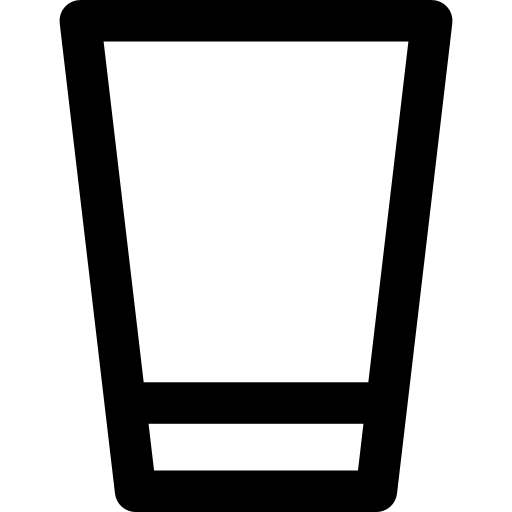
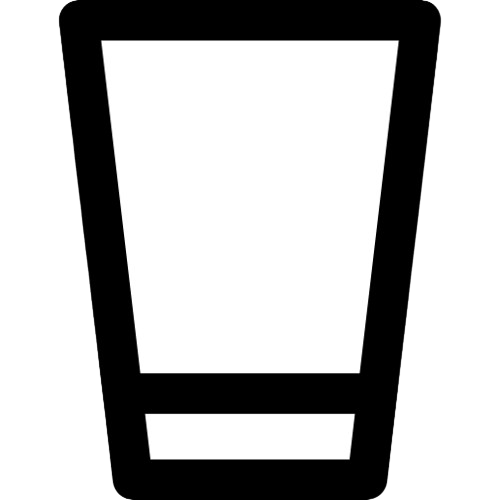
Add: fundo e sprite do copo melhorado

diff --git a/main.py b/main.py
@@ -7,6 +7,8 @@ from jogadorbla import *
 tela = pygame.display.set_mode((800, 500))
 pygame.display.set_caption("Pega Doces")
 tela.fill((136, 76, 181))
+fundo = pygame.image.load("zimagens/fundo.png")
+fundo = pygame.transform.scale(fundo,(800,500))
 
 
 #JOGADOR ATRIBUTOS E TAL
@@ -25,6 +27,7 @@ while rodando == True:
             rodando = False
     #LIMPANDO A TELA
     tela.fill((136, 76, 181))
+    tela.blit(fundo, (0,0))
 
     #JOGADOR APARECENDO e ANDANDO
     jogador.movimento(pygame.K_LEFT, pygame.K_RIGHT)
